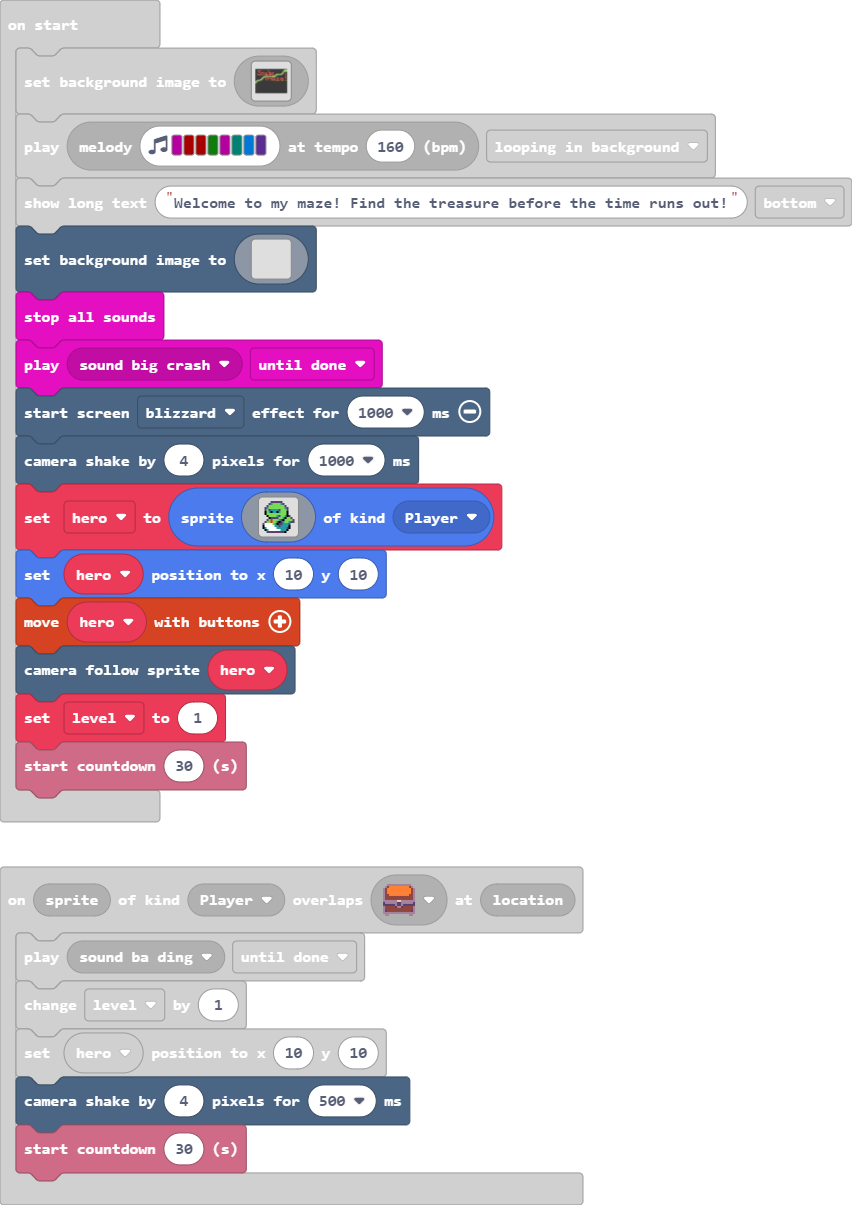
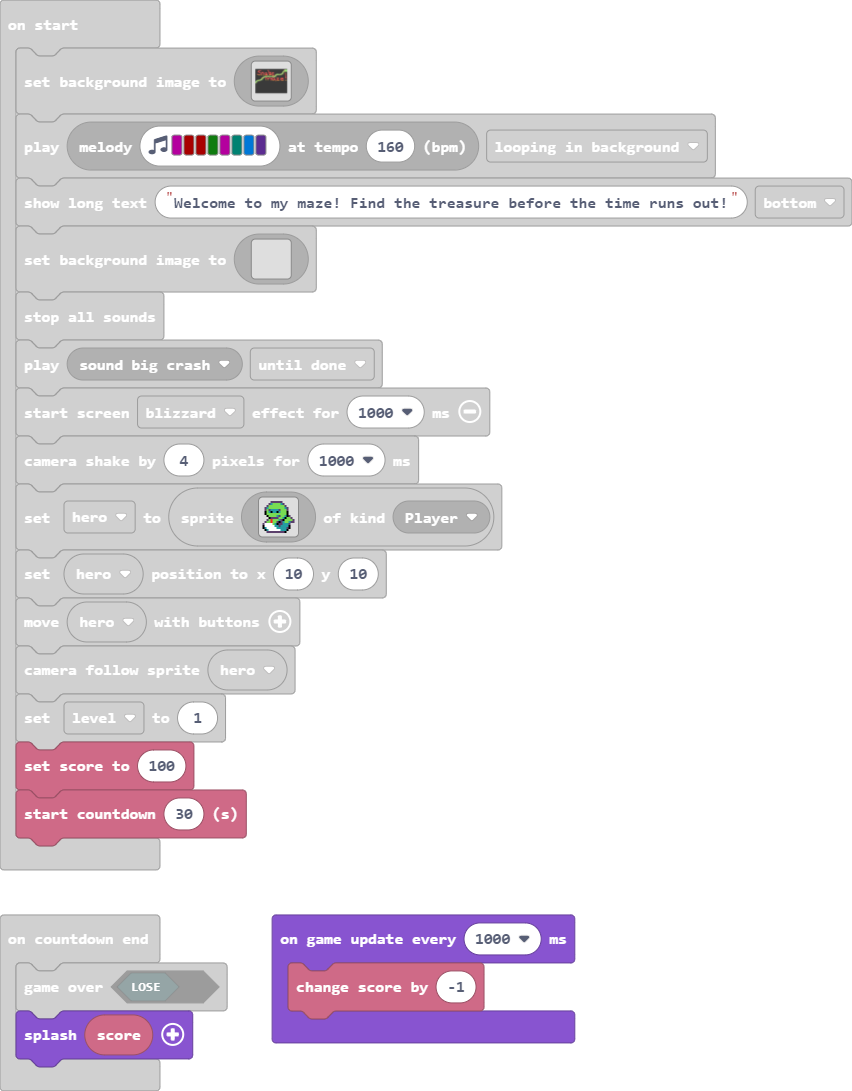
Score added

diff --git a/main.ts b/main.ts
@@ -1,5 +1,6 @@
 info.onCountdownEnd(function () {
     game.gameOver(false)
+    game.splash(info.score())
 })
 scene.onOverlapTile(SpriteKind.Player, sprites.dungeon.chestClosed, function (sprite, location) {
     music.play(music.melodyPlayable(music.baDing), music.PlaybackMode.UntilDone)
@@ -281,7 +282,11 @@ hero.setPosition(10, 10)
 controller.moveSprite(hero)
 scene.cameraFollowSprite(hero)
 let level = 1
+info.setScore(100)
 info.startCountdown(30)
+game.onUpdateInterval(1000, function () {
+    info.changeScoreBy(-1)
+})
 forever(function () {
     if (level == 1) {
         tiles.setCurrentTilemap(tilemap`level1`)
